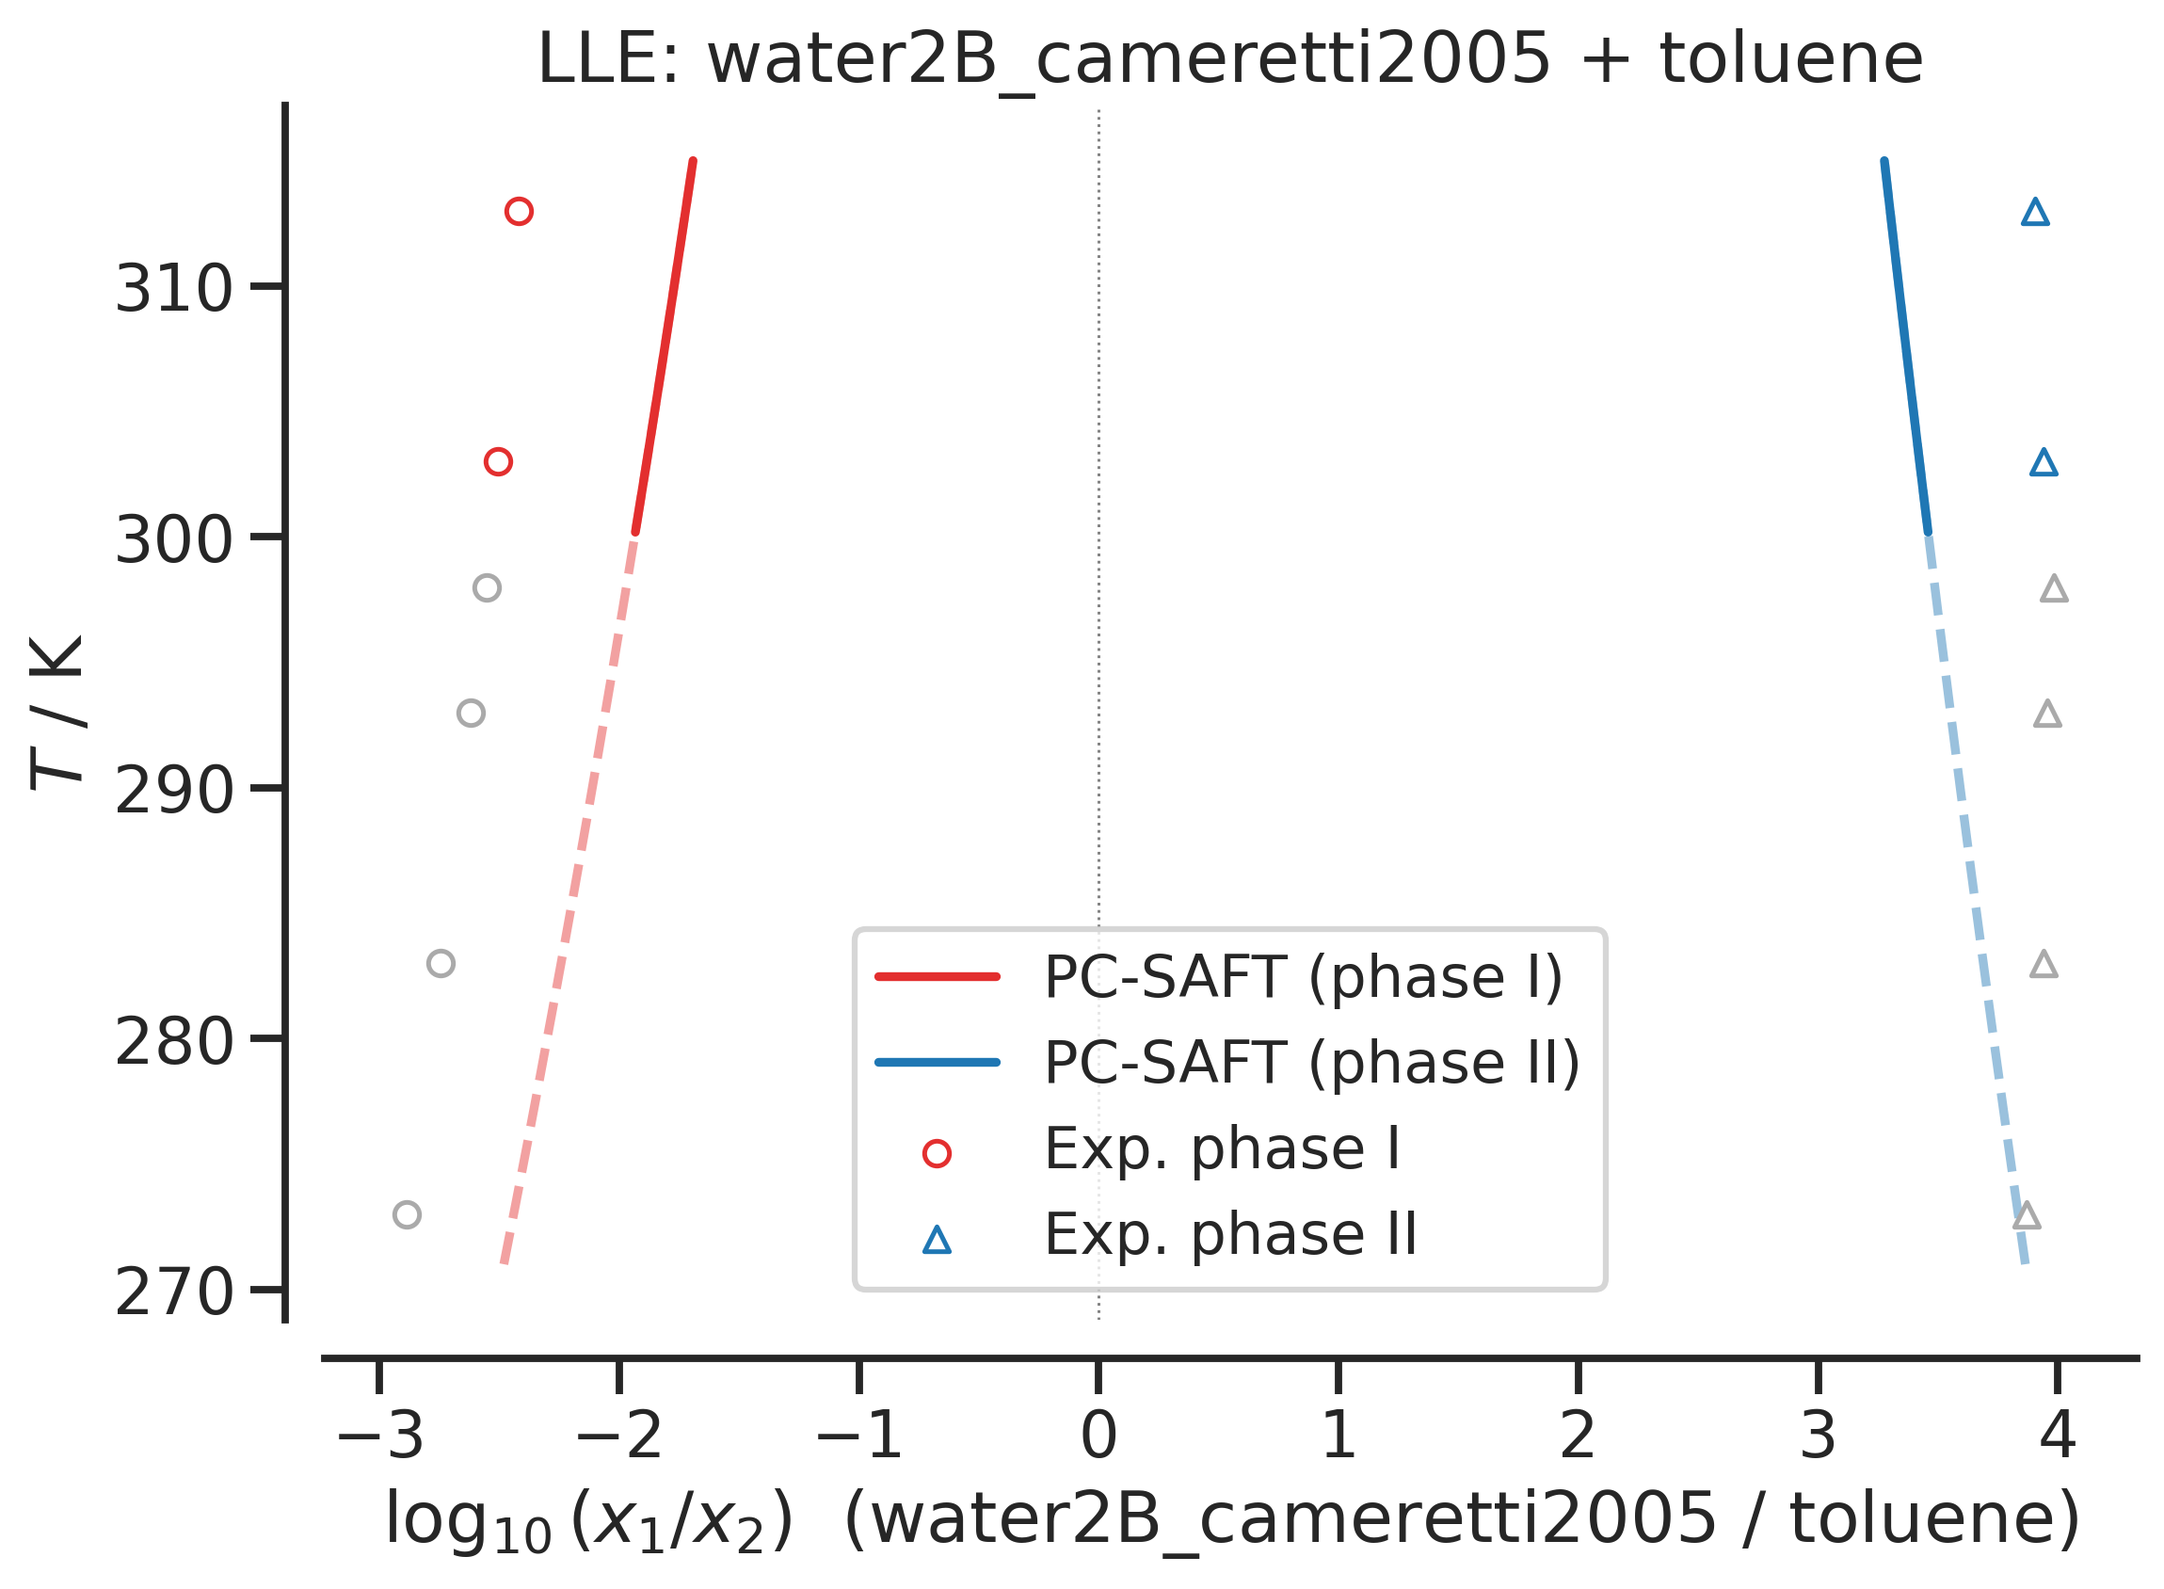
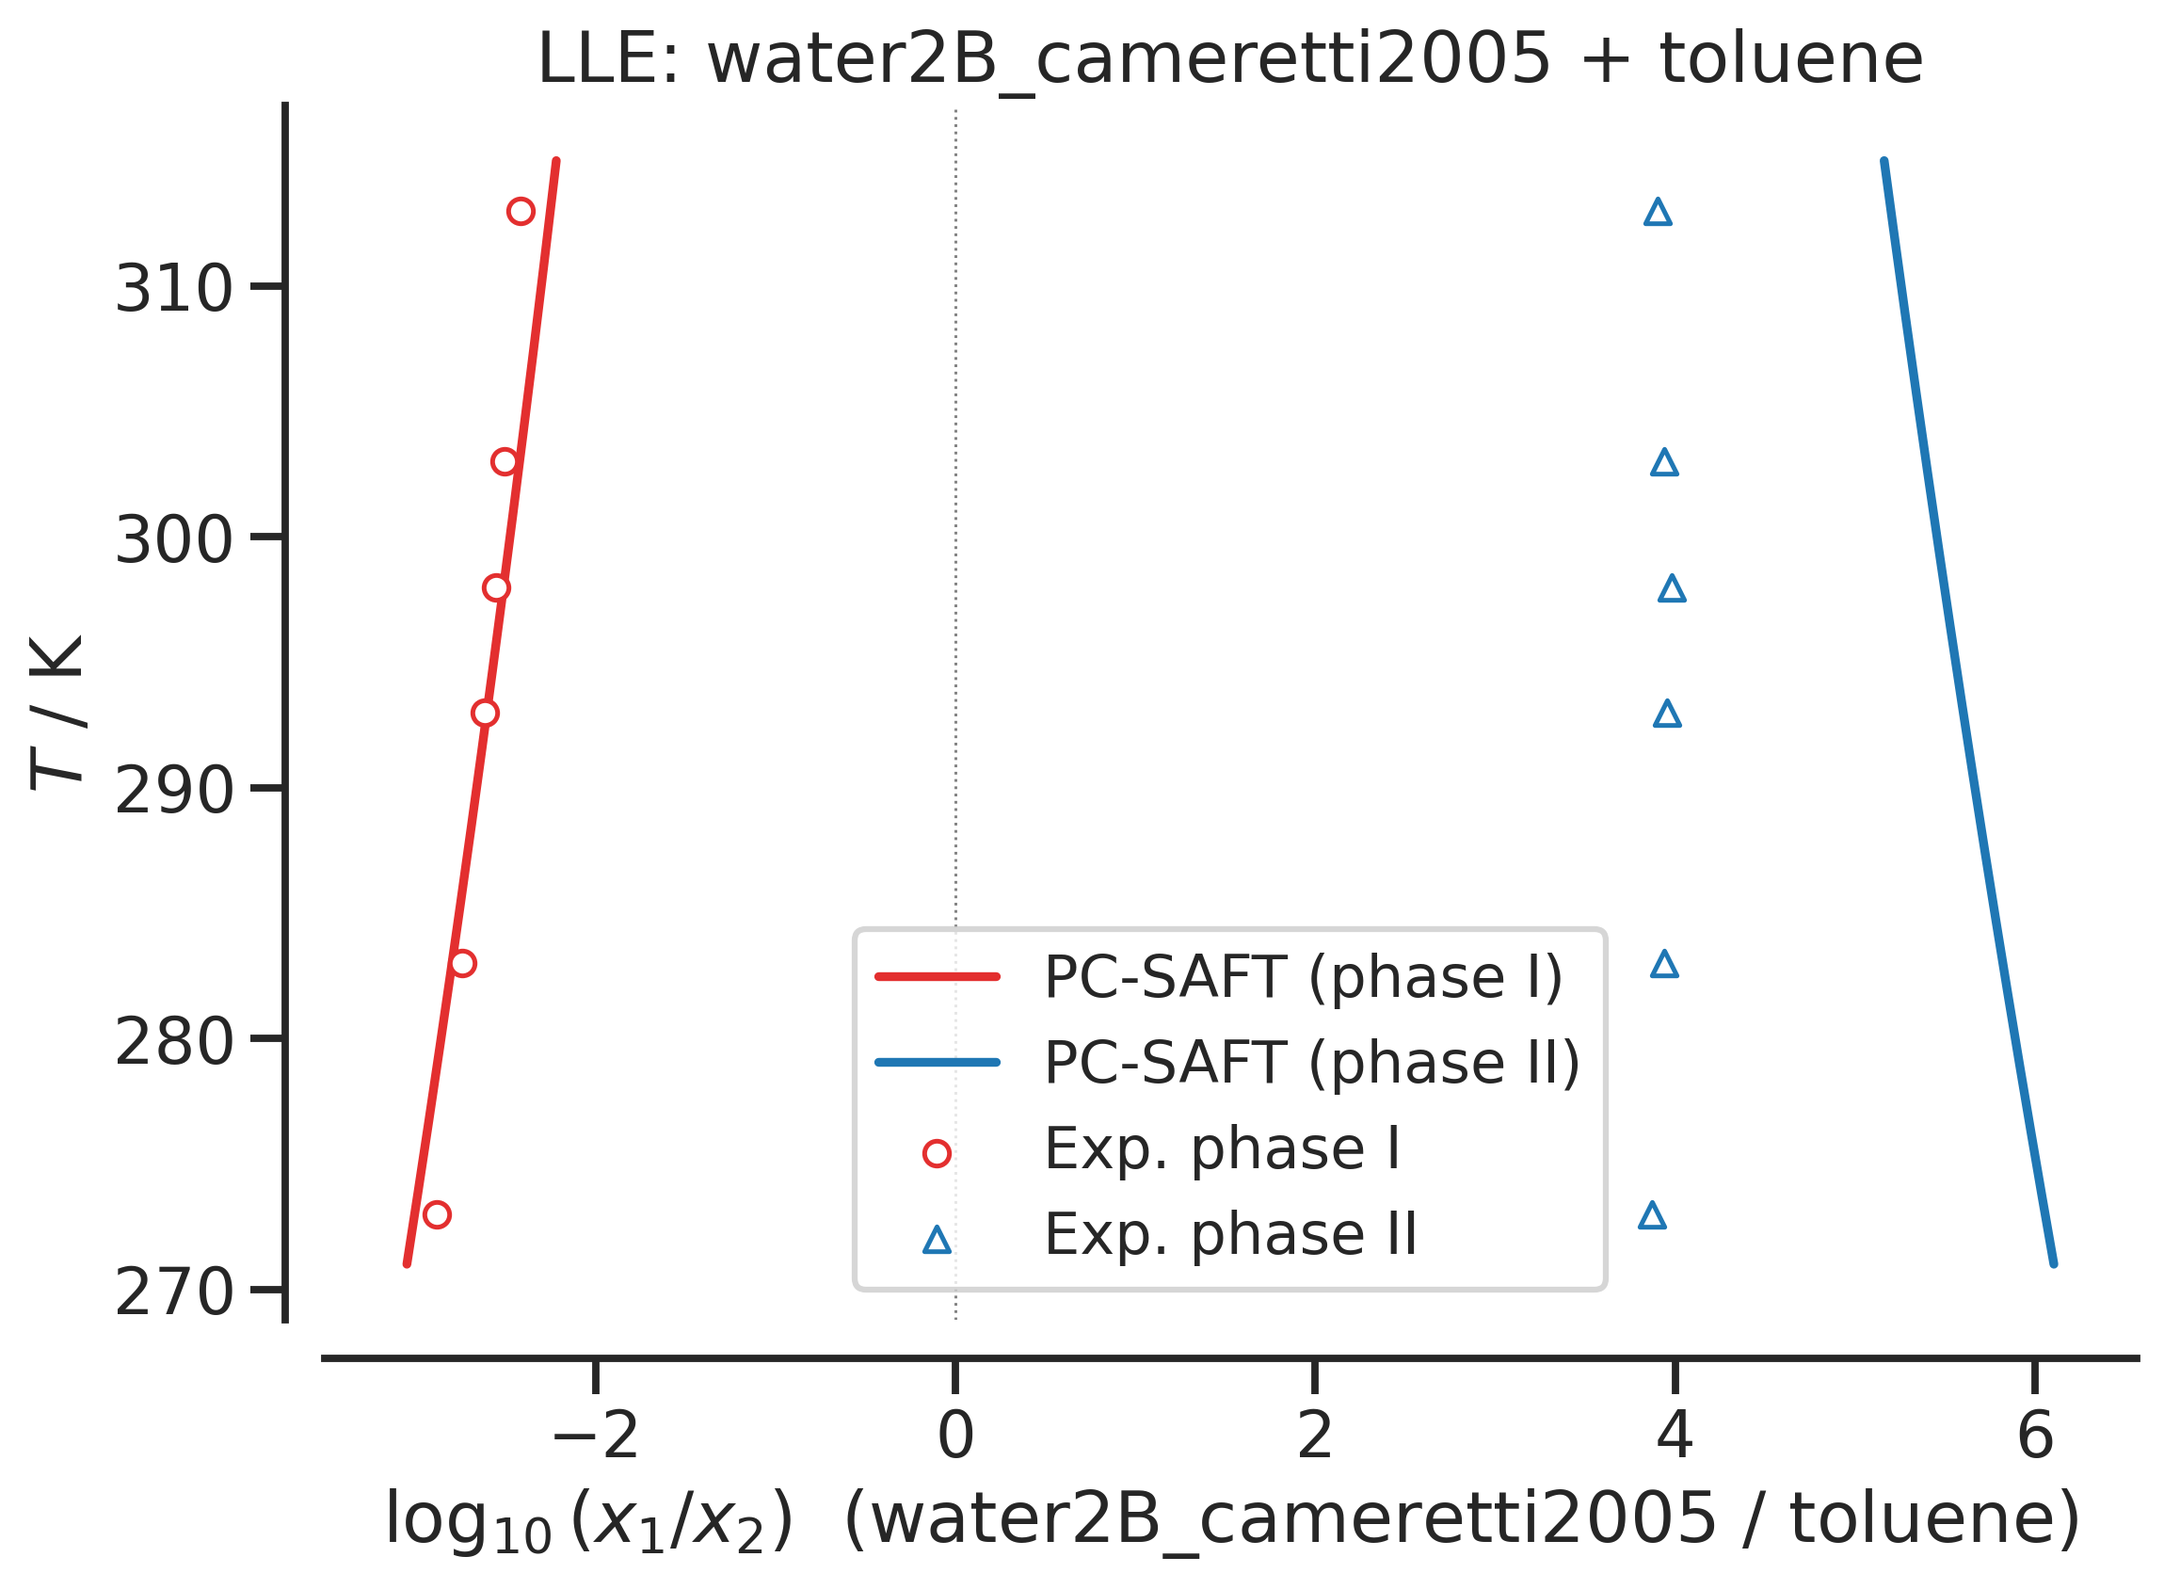
Replace tp_flash-based cost function with PhaseDiagram.lle, which uses   an internal continuation method and does not require a cold-start initial   guess. The old approach required k_ij ≥ 0.70 for tp_flash to find LLE   for water+toluene, making optimization fundamentally unreliable.
Key changes:
   - Add _lle_diagram(): calls PhaseDiagram.lle and interpolates predicted
     x_I/x_II at experimental temperatures; uses BaseException to catch
     Rust panics on empty StateVec
   - Cost function iterates over unique k_ij values, calls _lle_diagram
     once per unique k_ij (cached), uses r = i*n_phases*2 indexing
   - ARD computation mirrors cost function using PhaseDiagram.lle
   - Coarse k_ij scan (_N_KIJ_SCAN=9) selects best starting point
   - jac='3-point' with diff_step=0.01 (replaces custom finite-diff Jacobian)
   - Keep _tp_flash_robust and temperature-sorted warm-starting for
     z-precomputation

diff --git a/src/fit_pcsaft/_binary/lle.py b/src/fit_pcsaft/_binary/lle.py
@@ -12,12 +12,17 @@ from fit_pcsaft._binary._utils import (
     _kij_at_T,
     _load_lle_csv,
     _load_pure_records,
-    _make_binary_jac_fn,
 )
 from fit_pcsaft._binary.result import BinaryFitResult
 
 # 5 evenly-spaced global-composition candidates for one-sided tieline rows
 _Z_CANDIDATES = np.linspace(0.1, 0.9, 5)
+
+# Number of kij0 scan points for choosing the initial guess
+_N_KIJ_SCAN = 9
+
+# Pressure used for LLE diagram computations
+_LLE_P = 1.0 * si.BAR
 
 
 def _bubble_P(eos, T_si, z1: float):
@@ -58,6 +63,45 @@ def _tp_flash_robust(eos, T_si, P_si, feed, prev_flash=None):
         except Exception:
             continue
     return None
+
+
+def _lle_diagram(eos, T_arr_K, z1: float):
+    """Compute an LLE phase diagram and return (x_I, x_II) interpolated at T_arr_K.
+
+    Uses ``PhaseDiagram.lle`` (continuation method) which does not require a
+    cold-start initial guess.  Returns (x_I, x_II) arrays of length len(T_arr_K)
+    with NaN where interpolation fails, or (None, None) if the diagram call fails.
+
+    x_I  = component-1 mole fraction in the lean (low x1) phase.
+    x_II = component-1 mole fraction in the rich (high x1) phase.
+    """
+    T_min_K = float(T_arr_K.min())
+    T_max_K = float(T_arr_K.max())
+    # Expand range slightly so the diagram covers all data points.
+    margin = max(1.0, 0.01 * (T_max_K - T_min_K))
+    try:
+        feed = np.array([z1, 1.0 - z1]) * si.MOL
+        diag = feos.PhaseDiagram.lle(
+            eos,
+            _LLE_P,
+            feed=feed,
+            min_tp=(T_min_K - margin) * si.KELVIN,
+            max_tp=(T_max_K + margin) * si.KELVIN,
+            npoints=max(50, 4 * len(T_arr_K)),
+        )
+        T_diag = diag.liquid.temperature / si.KELVIN  # shape (npoints,)
+        if len(T_diag) == 0:
+            return None, None
+        # liquid = denser phase (water-rich), vapor = lighter phase (toluene-rich)
+        x_I_diag = diag.vapor.molefracs[:, 0]   # lean phase, comp-1
+        x_II_diag = diag.liquid.molefracs[:, 0]  # rich phase, comp-1
+
+        # Interpolate at experimental temperatures.
+        x_I = np.interp(T_arr_K, T_diag, x_I_diag)
+        x_II = np.interp(T_arr_K, T_diag, x_II_diag)
+        return x_I, x_II
+    except BaseException:
+        return None, None
 
 
 def _find_z(
@@ -119,16 +163,11 @@ def fit_kij_lle(
         2 columns  →  (T, x1_I)            one-sided tieline
         3+ columns →  (T, x1_I, x1_II)     full tieline
 
-    For each data point the global flash composition is:
-
-    - **Full tieline**: midpoint of the two experimental compositions.
-    - **One-sided**: the first of five evenly-spaced candidates
-      [0.1, 0.3, 0.5, 0.7, 0.9] that yields a valid LLE flash with the
-      initial EOS (k_ij = 0); falls back to 0.5.
-
-    The flash pressure is the bubble-point pressure of the mixture at the
-    global composition (recomputed each evaluation); falls back to 1 bar when
-    the bubble-point calculation fails.
+    For each candidate k_ij the LLE phase diagram is computed via
+    ``PhaseDiagram.lle`` (continuation method), which is robust to the
+    cold-start convergence issues of plain ``tp_flash``.  The predicted
+    compositions are interpolated at each experimental temperature and
+    compared to the data.
 
     Parameters
     ----------
@@ -242,92 +281,103 @@ def fit_kij_lle(
         xi_II = float(x1_II_arr[idx]) if x1_II_arr is not None else None
         z_arr[idx], prev_flash = _find_z(eos0, T_si, xi_I, xi_II, prev_flash)
 
-    # --- Build cost function -------------------------------------------------
+    # Global feed composition for PhaseDiagram.lle: use the mean z1 across all rows.
+    z1_global = float(np.mean(z_arr))
+
+    # --- Build cost function using PhaseDiagram.lle --------------------------
+    # n_phases active experimental columns
     n_phases = int(has_phase_I) + int(has_phase_II)
     n_resid = n_rows * n_phases * 2
 
     def fun(coeffs: np.ndarray) -> np.ndarray:
-        resids = np.empty(n_resid)
+        resids = np.ones(n_resid)  # default penalty = 1.0
+
+        # For kij_order > 0 the kij varies with T; we run a separate diagram
+        # per unique kij.  For order=0 there is one diagram.
         kij_per_row = np.array(
             [_kij_at_T(coeffs, float(T_arr[i]), kij_t_ref) for i in range(n_rows)]
         )
-        unique_kijs = np.unique(kij_per_row)
-        eos_map: dict = {}
-        for kij_val in unique_kijs:
+        unique_kijs, inverse = np.unique(kij_per_row, return_inverse=True)
+
+        # Build one LLE diagram per unique kij
+        diag_cache: dict = {}
+        for uid, kij_val in enumerate(unique_kijs):
             try:
-                eos_map[kij_val] = _build_binary_eos(record1, record2, float(kij_val))
+                eos = _build_binary_eos(record1, record2, float(kij_val))
             except Exception:
-                eos_map[kij_val] = None
+                diag_cache[uid] = (None, None)
+                continue
+            x_I_pred, x_II_pred = _lle_diagram(eos, T_arr, z1_global)
+            diag_cache[uid] = (x_I_pred, x_II_pred)
 
-        # Iterate in ascending temperature order for warm-starting
-        prev = None
-        for k in range(n_rows):
-            i = sort_idx[k]
-            r = i * n_phases * 2  # stable residual position for row i
+        for i in range(n_rows):
+            r = i * n_phases * 2
+            uid = int(inverse[i])
+            x_I_pred, x_II_pred = diag_cache[uid]
 
-            T_si = T_arr[i] * temperature_unit
-            z1 = z_arr[i]
-            z = np.array([z1, 1.0 - z1])
-            eos = eos_map[kij_per_row[i]]
+            x_pred_list: list = []
+            if has_phase_I and x_I_pred is not None:
+                x_pred_list.append(float(x_I_pred[i]))
+            if has_phase_II and x_II_pred is not None:
+                x_pred_list.append(float(x_II_pred[i]))
 
-            if eos is None:
-                resids[r : r + n_phases * 2] = 1.0
+            if not x_pred_list or any(np.isnan(v) for v in x_pred_list):
+                # diagram failed or out of range — keep penalty 1.0
                 continue
 
-            P_si = _bubble_P(eos, T_si, z1)
-            P_si = P_si if P_si is not None else si.BAR
+            x_exp_list: list = []
+            if has_phase_I:
+                v = float(x1_I_arr[i])
+                if not np.isnan(v):
+                    x_exp_list.append(v)
+            if has_phase_II:
+                v = float(x1_II_arr[i])
+                if not np.isnan(v):
+                    x_exp_list.append(v)
 
-            flash = _tp_flash_robust(eos, T_si, P_si, z * si.MOL, prev)
-
-            if flash is not None:
-                if _is_lle(flash):
-                    prev = flash  # only seed warm-start from confirmed LLE results
-                x_pred = sorted(
-                    [float(flash.liquid.molefracs[0]), float(flash.vapor.molefracs[0])]
-                )
-                x_exp = []
-                if has_phase_I:
-                    v = float(x1_I_arr[i])
-                    if not np.isnan(v):
-                        x_exp.append(v)
-                if has_phase_II:
-                    v = float(x1_II_arr[i])
-                    if not np.isnan(v):
-                        x_exp.append(v)
-                j = 0
-                for x_e in sorted(x_exp):
-                    xp = x_pred[j]
-                    resids[r + j * 2] = (xp - x_e) / max(x_e, 1e-10)
-                    resids[r + j * 2 + 1] = ((1 - xp) - (1 - x_e)) / max(1 - x_e, 1e-10)
-                    j += 1
-                for jj in range(j * 2, n_phases * 2):
-                    resids[r + jj] = 0.0
-            else:
-                resids[r : r + n_phases * 2] = 1.0
+            j = 0
+            for xp, x_e in zip(x_pred_list, x_exp_list):
+                resids[r + j * 2] = (xp - x_e) / max(x_e, 1e-10)
+                resids[r + j * 2 + 1] = ((1 - xp) - (1 - x_e)) / max(1 - x_e, 1e-10)
+                j += 1
+            for jj in range(j * 2, n_phases * 2):
+                resids[r + jj] = 0.0
 
         return resids
 
     # --- Optimize ------------------------------------------------------------
     n_coeffs = kij_order + 1
-    jac = _make_binary_jac_fn(fun, n_coeffs)
-
-    x0 = np.zeros(n_coeffs)
     lb = [kij_bounds[0]] + [-0.01] * kij_order
     ub = [kij_bounds[1]] + [0.01] * kij_order
 
     ls_kwargs = {
         "method": "trf",
+        "jac": "3-point",
+        "diff_step": 0.01,
         "bounds": (lb, ub),
-        "ftol": 1e-8,
-        "xtol": 1e-8,
-        "gtol": 1e-8,
+        "ftol": 1e-6,
+        "xtol": 1e-6,
+        "gtol": 1e-6,
         "max_nfev": 2000,
     }
     if scipy_kwargs:
         ls_kwargs.update(scipy_kwargs)
 
+    # Coarse scan: evaluate fun at _N_KIJ_SCAN evenly-spaced kij0 values and
+    # pick the starting point with the lowest initial cost.
+    kij0_scan = np.linspace(kij_bounds[0], kij_bounds[1], _N_KIJ_SCAN)
+    best_x0 = np.zeros(n_coeffs)
+    best_scan_cost = np.inf
+    for kij0 in kij0_scan:
+        x0 = np.zeros(n_coeffs)
+        x0[0] = kij0
+        cost = 0.5 * np.sum(fun(x0) ** 2)
+        if cost < best_scan_cost:
+            best_scan_cost = cost
+            best_x0 = x0.copy()
+
     t0 = time.perf_counter()
-    result = least_squares(fun, x0, jac=jac, **ls_kwargs)
+    result = least_squares(fun, best_x0, **ls_kwargs)
     time_elapsed = time.perf_counter() - t0
 
     kij_coeffs = result.x
@@ -335,40 +385,37 @@ def fit_kij_lle(
 
     # --- ARD -----------------------------------------------------------------
     abs_devs: list[float] = []
-    prev_ard = None
-    for k in range(n_rows):
-        i = sort_idx[k]
-        T_i = float(T_arr[i])
-        T_si = T_i * temperature_unit
-        z1 = z_arr[i]
-        z = np.array([z1, 1.0 - z1])
-        kij = _kij_at_T(kij_coeffs, T_i, kij_t_ref)
+    kij_at_row = [_kij_at_T(kij_coeffs, float(T_arr[i]), kij_t_ref) for i in range(n_rows)]
+    unique_kijs_ard = np.unique(kij_at_row)
+    diag_ard: dict = {}
+    for kij_val in unique_kijs_ard:
         try:
-            eos = _build_binary_eos(record1, record2, kij)
-            P_si = _bubble_P(eos, T_si, z1)
-            P_si = P_si if P_si is not None else si.BAR
-            flash = _tp_flash_robust(eos, T_si, P_si, z * si.MOL, prev_ard)
-            if flash is None or not _is_lle(flash):
-                continue
-            prev_ard = flash
-            x_pred = sorted(
-                [float(flash.liquid.molefracs[0]), float(flash.vapor.molefracs[0])]
-            )
-            x_exp = []
-            if has_phase_I:
-                v = float(x1_I_arr[i])
-                if not np.isnan(v):
-                    x_exp.append(v)
-            if has_phase_II:
-                v = float(x1_II_arr[i])
-                if not np.isnan(v):
-                    x_exp.append(v)
-            for j, x_e in enumerate(sorted(x_exp)):
-                xp = x_pred[j]
-                abs_devs.append(abs(xp - x_e) / max(x_e, 1e-10))
-                abs_devs.append(abs((1 - xp) - (1 - x_e)) / max(1 - x_e, 1e-10))
+            eos = _build_binary_eos(record1, record2, float(kij_val))
+            x_I_pred, x_II_pred = _lle_diagram(eos, T_arr, z1_global)
+            diag_ard[float(kij_val)] = (x_I_pred, x_II_pred)
         except Exception:
-            pass
+            diag_ard[float(kij_val)] = (None, None)
+
+    for i in range(n_rows):
+        kij = _kij_at_T(kij_coeffs, float(T_arr[i]), kij_t_ref)
+        x_I_pred_arr, x_II_pred_arr = diag_ard.get(float(kij), (None, None))
+        if x_I_pred_arr is None:
+            continue
+        x_I_pred = float(x_I_pred_arr[i])
+        x_II_pred = float(x_II_pred_arr[i])
+        if np.isnan(x_I_pred) or np.isnan(x_II_pred):
+            continue
+
+        if has_phase_I:
+            x_e = float(x1_I_arr[i])
+            xp = x_I_pred
+            abs_devs.append(abs(xp - x_e) / max(x_e, 1e-10))
+            abs_devs.append(abs((1 - xp) - (1 - x_e)) / max(1 - x_e, 1e-10))
+        if has_phase_II:
+            x_e = float(x1_II_arr[i])
+            xp = x_II_pred
+            abs_devs.append(abs(xp - x_e) / max(x_e, 1e-10))
+            abs_devs.append(abs((1 - xp) - (1 - x_e)) / max(1 - x_e, 1e-10))
 
     ard = 100.0 * float(np.mean(abs_devs)) if abs_devs else float("nan")
 

diff --git a/examples/binary/02_water_toluene_lle.py b/examples/binary/02_water_toluene_lle.py
@@ -58,7 +58,6 @@ def main() -> None:
                 kij_t_ref=298.15,
                 kij_bounds=(-1, 1),
                 temperature_unit=si.KELVIN,
-                t_min=300 * si.KELVIN,
             )
             ard = result.ard
             print(f"{model_name:<35} {result.kij_coeffs[0]:>8.4f}  {ard:>7.2f}%")

diff --git a/examples/pure/02_acetone.py b/examples/pure/02_acetone.py
@@ -24,7 +24,7 @@ def main() -> None:
         density_path=density_path,
         hvap_path=hvap_path,
         na=1,
-        mu=None,  # fit dipole moment
+        mu=0.0,  # fit dipole moment
     )
     print(result)
     result.to_json(out_dir / "examples_pure.json")
